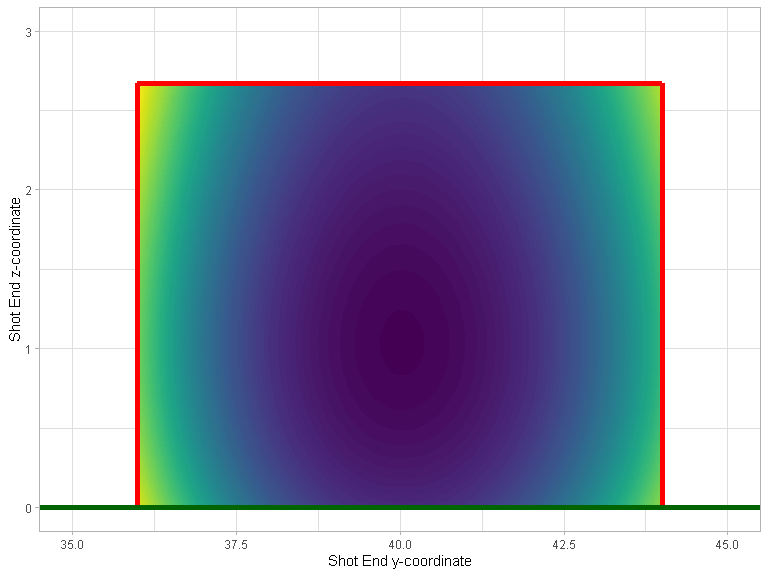
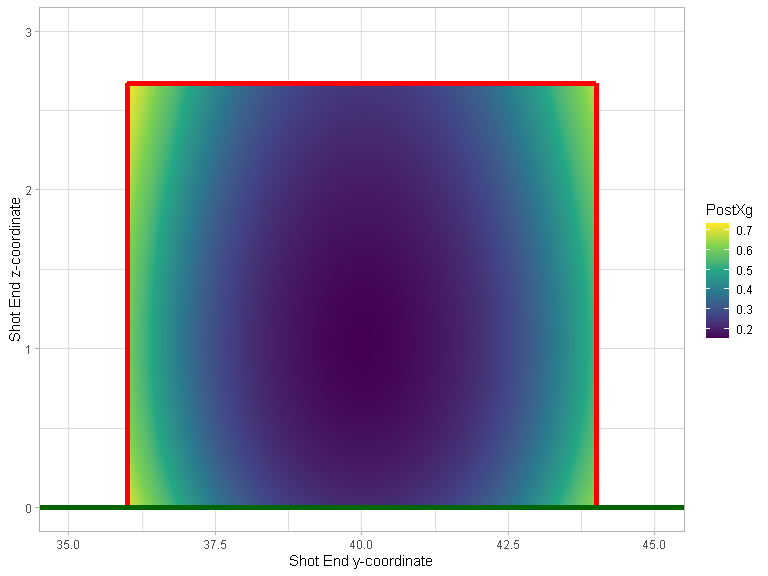
Tweak results

diff --git a/reproduction/miss_it_like_messi.md b/reproduction/miss_it_like_messi.md
@@ -120,17 +120,16 @@ statsbomb_shots_processed |>
 ## Figure 5
 
 ``` r
-yy <- seq(y_left_post(), y_right_post(), by = 0.1)
-zz <- seq(0, z_crossbar(), by = 0.03)
+yy <- seq(y_left_post(), y_right_post(), by = 0.025)
+zz <- seq(0, z_crossbar(), by = 0.01)
 shots <- expand.grid(y = yy, z = zz)
 shots |>
-  dplyr::mutate(post_shot_xg = predict_post_xg(y, z)) |>
+  dplyr::mutate(PostXg = as.numeric(predict_post_xg(y, z))) |>
   ggplot2::ggplot() +
-  ggplot2::geom_contour_filled(
-    mapping = ggplot2::aes(x = y, y = z, z = post_shot_xg),
-    bins = 100,
-    show.legend = FALSE
+  ggplot2::geom_tile(
+    mapping = ggplot2::aes(x = y, y = z, fill = PostXg),
   ) +
+  ggplot2::scale_fill_viridis_c() +
   plot_goalposts(color = "red", cex = 2) +
   plot_grass(color = "darkgreen", cex = 2) +
   ggplot2::theme_light() +
@@ -145,7 +144,6 @@ shots |>
 ![](miss_it_like_messi_files/figure-gfm/figure_5-1.png)<!-- -->
 
 ``` r
-
 
 print("AUROC of StatsBomb PostXg:")
 #> [1] "AUROC of StatsBomb PostXg:"
@@ -516,6 +514,20 @@ stability_data |>
 | rb_post_xg_a  |  0.028 |  0.035 |        0.219 |         0.226 |
 | gen_post_xg_a |  0.037 |  0.020 |        0.219 |         0.232 |
 
+``` r
+
+stability_data |>
+  dplyr::filter(n_a + n_b >= 40) |>
+  nrow()
+#> [1] 329
+
+stability_data |>
+  dplyr::filter(n_a + n_b >= 40) |>
+  dplyr::distinct(player) |>
+  nrow()
+#> [1] 257
+```
+
 ## Figure 6
 
 ``` r
@@ -540,26 +552,26 @@ bootstrapped_correlations <- suppressWarnings(
           cor()
       )
     ),
-    q25 = purrr::map(
+    q5 = purrr::map(
       cors,
-      ~ apply(.x, 1:2, function(x) quantile(x, probs = 0.25, na.rm = TRUE))
+      ~ apply(.x, 1:2, function(x) quantile(x, probs = 0.05, na.rm = TRUE))
     ),
     q50 = purrr::map(
       cors,
       ~ apply(.x, 1:2, function(x) quantile(x, probs = 0.5, na.rm = TRUE))
     ),
-    q75 = purrr::map(
+    q95 = purrr::map(
       cors,
-      ~ apply(.x, 1:2, function(x) quantile(x, probs = 0.75, na.rm = TRUE))
+      ~ apply(.x, 1:2, function(x) quantile(x, probs = 0.95, na.rm = TRUE))
     )
   ) |>
-  dplyr::select(threshold, q25, q50, q75) |>
+  dplyr::select(threshold, q5, q50, q95) |>
   dplyr::mutate(metric = list(metric_names)) |>
   tidyr::unnest(metric) |>
   dplyr::mutate(
-    q25 = purrr::map2_dbl(q25, metric, ~ .x[[paste0(.y, "_a"), paste0(.y, "_b")]]),
+    q5 = purrr::map2_dbl(q5, metric, ~ .x[[paste0(.y, "_a"), paste0(.y, "_b")]]),
     q50 = purrr::map2_dbl(q50, metric, ~ .x[[paste0(.y, "_a"), paste0(.y, "_b")]]),
-    q75 = purrr::map2_dbl(q75, metric, ~ .x[[paste0(.y, "_a"), paste0(.y, "_b")]])
+    q95 = purrr::map2_dbl(q95, metric, ~ .x[[paste0(.y, "_a"), paste0(.y, "_b")]])
   )
 ) 
 
@@ -574,7 +586,7 @@ bootstrapped_correlations |>
   ) |>
   ggplot2::ggplot(ggplot2::aes(x = threshold)) +
   ggplot2::geom_line(ggplot2::aes(y = q50, colour = Metric)) +
-  ggplot2::geom_ribbon(ggplot2::aes(ymin = q25, ymax = q75, fill = Metric), alpha = 0.1) +
+  ggplot2::geom_ribbon(ggplot2::aes(ymin = q5, ymax = q95, fill = Metric), alpha = 0.1) +
   ggplot2::theme_light() +
   ggplot2::labs(
     x = "Minimum Sample Size",
